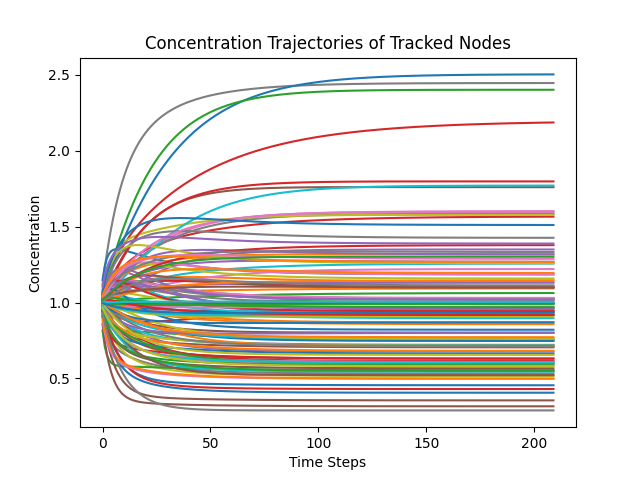
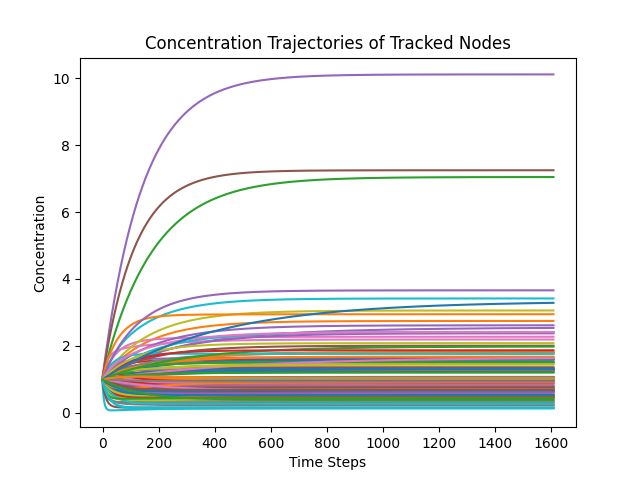
correöated simulations

diff --git a/simulation/simulator.py b/simulation/simulator.py
@@ -5,6 +5,7 @@ from matplotlib.colors import ListedColormap
 import pandas as pd
 import os
 import seaborn as sns
+from sklearn.decomposition import PCA
 
 class Simulator:
     """A simulator to produce data to train a kinetic constants estimator.
@@ -70,7 +71,7 @@ class Simulator:
         plt.savefig(os.path.join('simulation', 'figures', 'graph_nearest_neighbors.png'))
         plt.show()
 
-    def sample_kinetic_constants(self, mean=0, sigma=1.0, degr_sigma=1.0, prod_sigma=1.0, random_seed=42, rank=None, L=None):
+    def sample_kinetic_constants(self, mean=0, sigma=1.0, degr_sigma=1.0, prod_sigma=1.0, random_seed=42, rank=None, L=None, n_samples=1):
         """Samples the logarithm of kinetic constants for each edge in the graph.
         Args:
             mean (float): Mean of the normal distribution.
@@ -91,19 +92,70 @@ class Simulator:
         cov_matrix = (L @ L.T + np.eye(num_ks)) * sigma**2 + np.random.randn(num_ks, num_ks) * 1e-3
         mu = np.full(num_ks, mean)
 
-        log_k = np.random.multivariate_normal(mu, cov_matrix)
+        log_k = np.random.multivariate_normal(mu, cov_matrix, size=n_samples)
 
-        kinetic_constants = self.adjacency_matrix.copy()
-        kinetic_constants[self.adjacency_matrix > 0] = np.exp(log_k[:np.sum(self.adjacency_matrix)])
-        self.sparse_kinetic_constants = np.exp(log_k[:np.sum(self.adjacency_matrix)])
+        kinetic_constants = np.zeros((n_samples, self.adjacency_matrix.shape[0], self.adjacency_matrix.shape[1]))
+        kinetic_constants[:, self.adjacency_matrix > 0] = np.exp(log_k[:, :np.sum(self.adjacency_matrix)])
+        self.sparse_kinetic_constants = np.exp(log_k[:, :np.sum(self.adjacency_matrix)])
         self.kinetic_constants = kinetic_constants
-        self.degradation_constants = np.exp(log_k[np.sum(self.adjacency_matrix):np.sum(self.adjacency_matrix)+self.adjacency_matrix.shape[0]])
-        self.production_constants = np.exp(log_k[np.sum(self.adjacency_matrix)+self.adjacency_matrix.shape[0]:])
+        self.degradation_constants = np.exp(log_k[:, np.sum(self.adjacency_matrix):np.sum(self.adjacency_matrix)+self.adjacency_matrix.shape[0]])
+        self.production_constants = np.exp(log_k[:, np.sum(self.adjacency_matrix)+self.adjacency_matrix.shape[0]:])
         self.dropout = np.random.random() * 0.1
         self.concentration_noise = 0.1 * np.random.random()
         self.log_kinetic_constants_noise = 0.04 * np.random.random()
         
         return self.kinetic_constants, self.degradation_constants, self.production_constants
+    
+    def sample_free_energies(self, mean=0, sigma=1.0, mean_barrier=1.0, random_seed=42, c_rank=None, reax_rank=None, c_L=None, reax_L=None, n_samples=1):
+        """Samples the free energies for each node in the graph.
+        Args:
+            mean (float): Mean of the normal distribution.
+            sigma (float): Standard deviation of the normal distribution."""
+        
+        if not hasattr(self, 'adjacency_matrix'):
+            raise ValueError("Adjacency matrix not found. Please build the graph first.")
+        
+        np.random.seed(random_seed)
+
+        num_nodes = self.adjacency_matrix.shape[0]
+
+        symm_adjacency = self.adjacency_matrix + self.adjacency_matrix.T
+        symm_adjacency[symm_adjacency > 0] = 1
+        num_reactions = (np.sum(self.adjacency_matrix) / 2).astype(int)
+
+        if c_rank is None:
+            c_rank = num_nodes
+        if reax_rank is None:
+            reax_rank = num_reactions
+
+        if c_L is None:
+            c_L = np.random.randn(num_nodes, c_rank) / np.sqrt(c_rank) * sigma
+        c_cov_matrix = c_L @ c_L.T + np.random.randn(num_nodes, num_nodes) * 1e-2
+        c_mu = np.full(num_nodes, mean)
+
+        if reax_L is None:
+            reax_L = np.random.randn(num_reactions, reax_rank) / np.sqrt(reax_rank) * sigma
+        reax_cov_matrix = reax_L @ reax_L.T + np.random.randn(num_reactions, num_reactions) * 1e-2
+        reax_mu = np.full(num_reactions, mean_barrier)
+
+        self.free_energies = np.random.multivariate_normal(c_mu, c_cov_matrix, size=n_samples)
+
+        reaction_barriers = np.random.multivariate_normal(reax_mu, reax_cov_matrix, size=n_samples)
+        transition_free_energies = np.zeros((n_samples, num_nodes, num_nodes))
+        idx = 0
+        for i in range(num_nodes):
+            for j in range(i+1, num_nodes):
+                if self.adjacency_matrix[i, j] > 0:
+                    transition_free_energies[:, i, j] = np.maximum(self.free_energies[:, i], self.free_energies[:, j]) + reaction_barriers[:, idx] - self.free_energies[:, i]
+                    transition_free_energies[:, j, i] = np.maximum(self.free_energies[:, j], self.free_energies[:, i]) + reaction_barriers[:, idx] - self.free_energies[:, j]
+                    idx += 1
+        self.kinetic_constants = np.exp(-transition_free_energies) * symm_adjacency[np.newaxis, :, :]
+        self.sparse_kinetic_constants = self.kinetic_constants[:, symm_adjacency > 0]
+        self.degradation_constants = np.exp(np.random.normal(mean, sigma, size=(n_samples, num_nodes)))
+        self.production_constants = np.exp(np.random.normal(mean, sigma, size=(n_samples, num_nodes)))
+        self.dropout = np.random.random() * 0.1
+        self.concentration_noise = 0.1 * np.random.random()
+        self.log_kinetic_constants_noise = 0.04 * np.random.random()
     
     def graph_components(self):
         """Identifies connected components in the graph. Needed to avoid singular matrices during simulation."""
@@ -142,13 +194,19 @@ class Simulator:
         Args:
             **kwargs: Keyword arguments for simulation parameters."""
         
-        self.kinetic_constants = np.exp(kwargs.get('log_kinetic_constants', None))
-        self.production_constants = np.exp(kwargs.get('log_production_constants', None))
-        self.degradation_constants = np.exp(kwargs.get('log_degradation_constants', None))
+        if 'log_kinetic_constants' in kwargs:
+            self.kinetic_constants = np.exp(kwargs.get('log_kinetic_constants'))
+        if 'log_production_constants' in kwargs:
+            self.production_constants = np.exp(kwargs.get('log_production_constants'))
+        if 'log_degradation_constants' in kwargs:
+            self.degradation_constants = np.exp(kwargs.get('log_degradation_constants'))
         self.L = np.linalg.cholesky(kwargs.get('correlation_matrix', np.eye(self.kinetic_constants.shape[0])))
-        self.concentration_noise = kwargs.get('concentration_noise', 0.05)
-        self.log_kinetic_constants_noise = kwargs.get('log_kinetic_constants_noise', 0.01)
-        self.dropout = kwargs.get('dropout', 0.0)
+        if 'concentration_noise' in kwargs:
+            self.concentration_noise = kwargs.get('concentration_noise')
+        if 'log_kinetic_constants_noise' in kwargs:
+            self.log_kinetic_constants_noise = kwargs.get('log_kinetic_constants_noise')
+        if 'dropout' in kwargs:
+            self.dropout = kwargs.get('dropout')
 
     def get_simulation_parameters(self):
         """Get current simulation parameters.
@@ -182,18 +240,19 @@ class Simulator:
             k_max = np.max(self.kinetic_constants)
             time_step = 1 / (10 * k_max)
 
-        num_nodes = self.kinetic_constants.shape[0]
+        num_samples = self.kinetic_constants.shape[0]
+        num_nodes = self.kinetic_constants.shape[1]
         if initial_concentrations is None:
-            concentrations = np.ones(num_nodes) 
+            concentrations = np.ones((num_samples, num_nodes))
 
         tracked_concentrations = [[] for node in track_concentrations]
 
-        k_out = np.sum(self.kinetic_constants, axis=1)
+        k_out = np.sum(self.kinetic_constants, axis=2)
         for iteration in range(max_iterations):
             if iteration == max_iterations - 1:
                 raise Exception("Simulation did not converge within the maximum number of iterations.")
             
-            production = self.kinetic_constants.T @ concentrations + self.production_constants
+            production = np.einsum('bji,bj->bi', self.kinetic_constants, concentrations) + self.production_constants
             degradation = (k_out + self.degradation_constants) * concentrations
             dCdt = production - degradation
 
@@ -210,7 +269,7 @@ class Simulator:
                 raise ValueError("NaN or Inf detected in concentrations during equilibration.")
 
             for i, node in enumerate(track_concentrations):
-                tracked_concentrations[i].append(new_concentrations[node])
+                tracked_concentrations[i].append(new_concentrations[0, node])
 
             #print(f"Iteration {iteration}: Max Relative Change = {np.max(np.abs(new_concentrations - concentrations) / concentrations):.6f}, Index of Max Change = {np.argmax(np.abs(new_concentrations - concentrations) / concentrations)}")
             if np.max(np.abs(new_concentrations - concentrations) / (concentrations + 1e-8)) < convergence_threshold:
@@ -270,7 +329,7 @@ class Simulator:
         for step in range(steps):
             # correlated gaussian noise: draw vector z ~ N(0,1), then L @ z
             z = xp.random.normal(0, self.concentration_noise, size=concentrations.shape)
-            correlated = z @ L.T
+            correlated = xp.einsum('ij,bj->bi', L, z)
             concentrations = concentrations + concentrations * correlated
             concentrations[concentrations < 0] = 0
 
@@ -278,8 +337,8 @@ class Simulator:
             noisy_degr = degr * xp.exp(xp.random.normal(0, self.log_kinetic_constants_noise, size=degr.shape))
             noisy_prod = prod * xp.exp(xp.random.normal(0, self.log_kinetic_constants_noise, size=prod.shape))
 
-            production = noisy_kin.T @ concentrations + noisy_prod
-            degradation = (xp.sum(noisy_kin, axis=1) + noisy_degr) * concentrations
+            production = np.einsum('bji,bj->bi', noisy_kin, concentrations) + noisy_prod
+            degradation = (xp.sum(noisy_kin, axis=2) + noisy_degr) * concentrations
             dCdt = production - degradation
 
             concentrations = concentrations + dCdt * time_step
@@ -299,7 +358,7 @@ class Simulator:
             self.simulated_data = np.array(concentration_data)  #shape (steps, num_nodes)
 
         if track_concentrations != []:
-            plt.plot(self.simulated_data[:, track_concentrations])
+            plt.plot(self.simulated_data[:, 0, track_concentrations])
             plt.xlabel('Time Steps')
             plt.ylabel('Concentration')
             plt.title('Noisy Simulation Trajectories of Tracked Nodes')
@@ -369,16 +428,41 @@ if __name__ == "__main__":
     simulator = Simulator(random_seed=12)
     graph = simulator.build_graph(adjacency_matrix=adj_matrix)
     #simulator.graph_info()
-    simulator.sample_kinetic_constants()
+    simulator.sample_free_energies(mean=0, sigma=1.0, mean_barrier=1.0, random_seed=12, c_rank=10, reax_rank=10, n_samples=2)
 
     nodes_to_track = [i for i in range(len(all_lipids))]
     concentrations = simulator.run_equilibration(track_concentrations=nodes_to_track)
-    simulated_data = simulator.run_noisy_simulation(steps=2000, track_concentrations=nodes_to_track, L=L)
+    simulator.set_simulation_parameters(correlation_matrix=correlation_matrix)
+    simulated_data = simulator.run_noisy_simulation(steps=2000, track_concentrations=nodes_to_track)
 
     #mean_concentrations, std_concentrations = simulator.analyze_results()
 
-    correlation_matrix_simulated = np.corrcoef(simulated_data.T)
+    correlation_matrix_simulated = np.corrcoef(simulated_data[:,0,:].T)
     correlation_df = pd.DataFrame(correlation_matrix_simulated, index=all_lipids, columns=all_lipids)
     sns.clustermap(correlation_df, cmap='coolwarm', cbar=True, vmin=-1, vmax=1, annot=False)
     plt.tight_layout()
+    
+    pca = PCA()
+    pca.fit(simulator.free_energies)
+
+    # 2. Extract the Eigenvalues (Variances)
+    eigenvalues = pca.explained_variance_
+    ratios = pca.explained_variance_ratio_
+
+    # 3. Visualization (The "Scree Plot")
+    plt.figure(figsize=(10, 5))
+
+    # Plot the log of variances to see the drop-off clearly
+    plt.plot(ratios, marker='o', linestyle='--')
+    plt.yscale('log')  # <--- CRITICAL for low-rank data
+    plt.title("Scree Plot: Revealing the Low Rank")
+    plt.xlabel("Principal Component Index")
+    plt.ylabel("Eigenvalue (Log Scale)")
+    plt.grid(True)
     plt.show()
+
+    # 4. Check the "Intrinsic Dimension"
+    # Count how many components are effectively non-zero (above machine noise)
+    # A common threshold for numerical noise is 1e-10
+    effective_rank = np.sum(eigenvalues > 1e-10)
+    print(f"PCA estimates the rank is: {effective_rank}")
